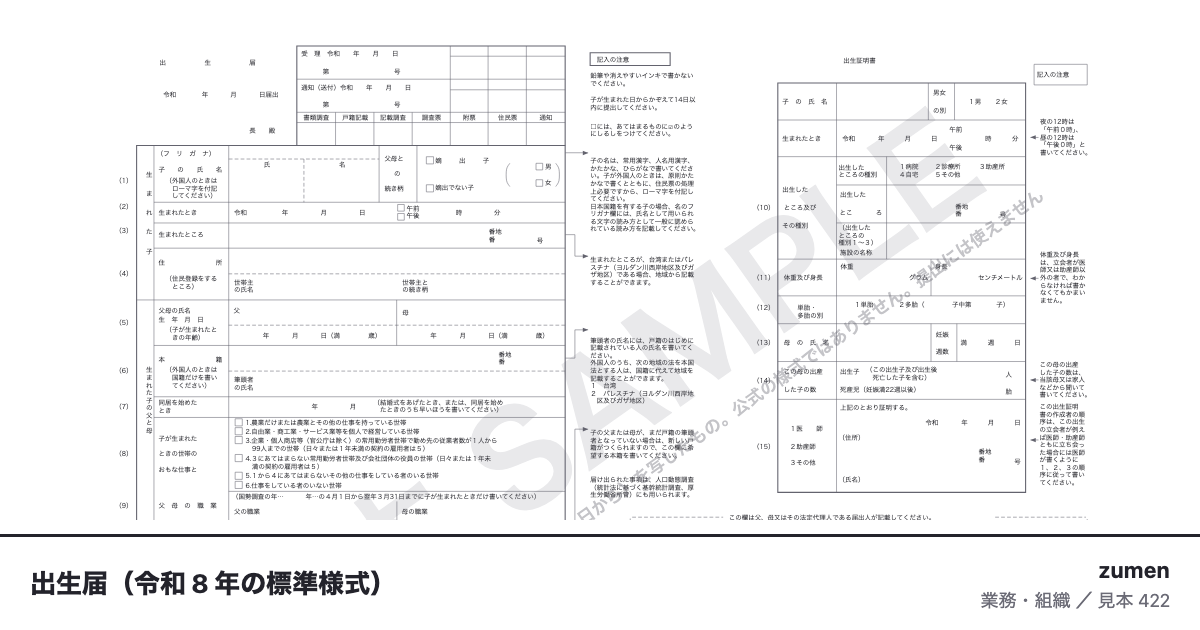
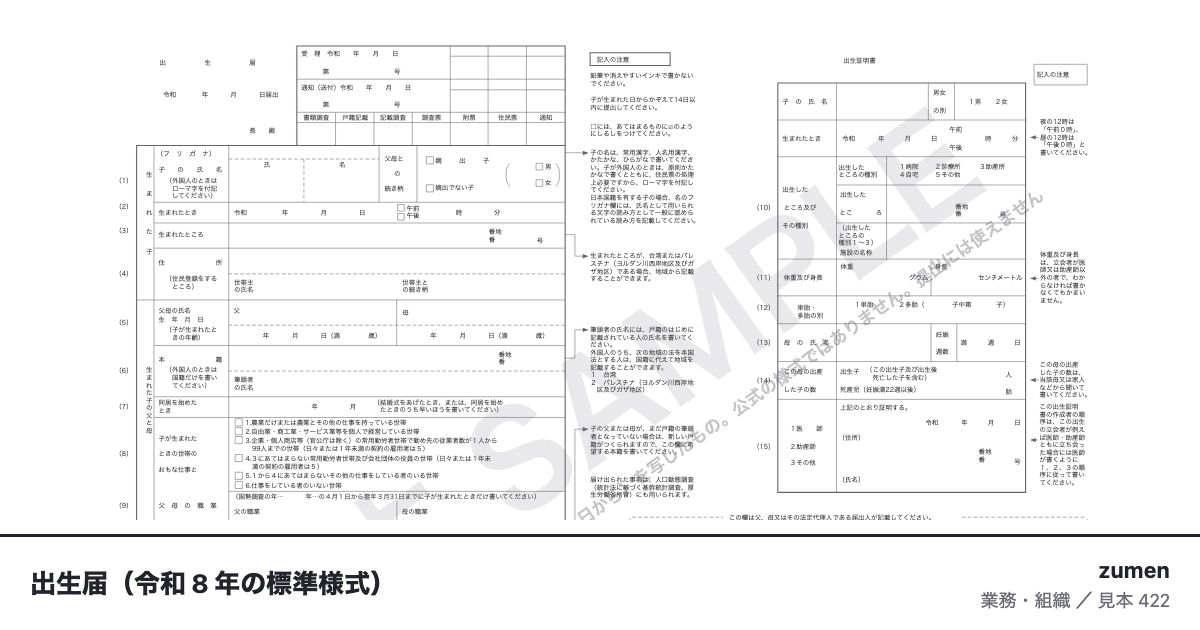
fix(見本 422): 5 回目の見直し。記入の注意の矢印を文の 1 行目へ・点線の枠をつなぐ・（注）①の説明を戻す
Claude-Session: https://claude.ai/code/session_01SsuPBZV9YaAZ9NJNDHvP2H

Changed region(s): [[0.4933, 0.2413, 0.5858, 0.4524], [0.4933, 0.5127, 0.5858, 0.7238]]

diff --git a/site/g/422/index.html b/site/g/422/index.html
@@ -111,7 +111,7 @@
   <p class="made">この図は、下の 1 枚の YAML から描かれています。手で図形を動かしてはいません。</p>
   <h2>正本に書いてある決まりごと</h2>
   <p><strong>役所の窓口や病院で受け取って手で書く様式。</strong> 左が届出人（父母など）の欄、右上が出生証明書（医師・助産師などが書く）、右下の点線枠が個人番号カード交付申請書 兼 電子証明書発行申請書、中央の文は欄ごとの注意。</p>
-  <p>罫線は様式の PDF（A3 横）から拾い、字は PDF から位置ごと取り出した。受理・通知の欄の字だけは図形なので絵から読んだ。字の大きさが固定なので、様式を 1.25 倍で描いて A3 へ縮めて収める（紙の上で字は約 2.5mm）。申請欄の（注）は原文が 6pt ほどの細字で、固定の字では原文の行に収まらないため要約した（図の中にもそう書いた）。出典：法務省民事局長通達「戸籍届書の標準様式の全部改正について」令和 8 年 2 月 26 日 法務省民一第 394 号（別紙 1〜35。令和 8 年 4 月 1 日施行、従前の様式の用紙も当分の間使える）別紙 1。内閣府 地方分権改革の提案募集の資料に収録https://www.cao.go.jp/bunken-suishin/teianbosyu/doc/r07/tb_r7fu_08moj_106_1.pdf（取得 2026-11-10）戸籍法 第 49 条（出生の届出は 14 日以内・出生証明書を添付）戸籍法施行規則 第 59 条・附録第 11 号様式「出生の届書（日本産業規格Ａ列四番）」（e-Gov 法令 API、取得 2026-11-24）。左半分の欄の名前・順は附録第 11 号様式と一致する（（1）〜（9）の番号・記入の注意・受理欄・年の前の「令和」、子の氏名の（外国人のときはローマ字を付記してください）・住所の（住民登録をするところ）・同居の（結婚式をあげたとき…）は標準様式で足されたもの。附録にあるのは（子が生まれたときの年齢）と本籍の（外国人のときは国籍だけを書いてください））架空：なし（何も書き込んでいない白紙の様式）。</p>
+  <p>罫線は様式の PDF（A3 横）から拾い、字は PDF から位置ごと取り出した。受理・通知の欄の字だけは図形なので絵から読んだ。字の大きさが固定なので、様式を 1.25 倍で描いて A3 へ縮めて収める（紙の上で字は約 2.5mm）。申請欄の（注）は原文が 6pt ほどの細字で、固定の字では原文の行に収まらないため要約した（図の中にもそう書いた）。原文のまま折り返すと 12 行要り、枠（⑥の欄の下から点線の枠の下まで）に入らない。要約しても項は落とさない（①の利用者証明用電子証明書の説明も残す）。出典：法務省民事局長通達「戸籍届書の標準様式の全部改正について」令和 8 年 2 月 26 日 法務省民一第 394 号（別紙 1〜35。令和 8 年 4 月 1 日施行、従前の様式の用紙も当分の間使える）別紙 1。内閣府 地方分権改革の提案募集の資料に収録https://www.cao.go.jp/bunken-suishin/teianbosyu/doc/r07/tb_r7fu_08moj_106_1.pdf（取得 2026-11-10）戸籍法 第 49 条（出生の届出は 14 日以内・出生証明書を添付）戸籍法施行規則 第 59 条・附録第 11 号様式「出生の届書（日本産業規格Ａ列四番）」（e-Gov 法令 API、取得 2026-11-24）。左半分の欄の名前・順は附録第 11 号様式と一致する（（1）〜（9）の番号・記入の注意・受理欄・年の前の「令和」、子の氏名の（外国人のときはローマ字を付記してください）・住所の（住民登録をするところ）・同居の（結婚式をあげたとき…）は標準様式で足されたもの。附録にあるのは（子が生まれたときの年齢）と本籍の（外国人のときは国籍だけを書いてください））架空：なし（何も書き込んでいない白紙の様式）。</p>
   <h2>正本（YAML）</h2>
   <p><a href="https://github.com/meta-taro/zumen/blob/main/examples/gallery/422-%E5%87%BA%E7%94%9F%E5%B1%8A.zumen.yaml"><code>examples/gallery/422-出生届.zumen.yaml</code></a></p>
   <h2>同じ分野の見本</h2>

diff --git a/site/en/g/422/index.html b/site/en/g/422/index.html
@@ -112,7 +112,7 @@
   <h2>Notes in the source (in Japanese)</h2>
   <div lang="ja">
   <p><strong>役所の窓口や病院で受け取って手で書く様式。</strong> 左が届出人（父母など）の欄、右上が出生証明書（医師・助産師などが書く）、右下の点線枠が個人番号カード交付申請書 兼 電子証明書発行申請書、中央の文は欄ごとの注意。</p>
-  <p>罫線は様式の PDF（A3 横）から拾い、字は PDF から位置ごと取り出した。受理・通知の欄の字だけは図形なので絵から読んだ。字の大きさが固定なので、様式を 1.25 倍で描いて A3 へ縮めて収める（紙の上で字は約 2.5mm）。申請欄の（注）は原文が 6pt ほどの細字で、固定の字では原文の行に収まらないため要約した（図の中にもそう書いた）。出典：法務省民事局長通達「戸籍届書の標準様式の全部改正について」令和 8 年 2 月 26 日 法務省民一第 394 号（別紙 1〜35。令和 8 年 4 月 1 日施行、従前の様式の用紙も当分の間使える）別紙 1。内閣府 地方分権改革の提案募集の資料に収録https://www.cao.go.jp/bunken-suishin/teianbosyu/doc/r07/tb_r7fu_08moj_106_1.pdf（取得 2026-11-10）戸籍法 第 49 条（出生の届出は 14 日以内・出生証明書を添付）戸籍法施行規則 第 59 条・附録第 11 号様式「出生の届書（日本産業規格Ａ列四番）」（e-Gov 法令 API、取得 2026-11-24）。左半分の欄の名前・順は附録第 11 号様式と一致する（（1）〜（9）の番号・記入の注意・受理欄・年の前の「令和」、子の氏名の（外国人のときはローマ字を付記してください）・住所の（住民登録をするところ）・同居の（結婚式をあげたとき…）は標準様式で足されたもの。附録にあるのは（子が生まれたときの年齢）と本籍の（外国人のときは国籍だけを書いてください））架空：なし（何も書き込んでいない白紙の様式）。</p>
+  <p>罫線は様式の PDF（A3 横）から拾い、字は PDF から位置ごと取り出した。受理・通知の欄の字だけは図形なので絵から読んだ。字の大きさが固定なので、様式を 1.25 倍で描いて A3 へ縮めて収める（紙の上で字は約 2.5mm）。申請欄の（注）は原文が 6pt ほどの細字で、固定の字では原文の行に収まらないため要約した（図の中にもそう書いた）。原文のまま折り返すと 12 行要り、枠（⑥の欄の下から点線の枠の下まで）に入らない。要約しても項は落とさない（①の利用者証明用電子証明書の説明も残す）。出典：法務省民事局長通達「戸籍届書の標準様式の全部改正について」令和 8 年 2 月 26 日 法務省民一第 394 号（別紙 1〜35。令和 8 年 4 月 1 日施行、従前の様式の用紙も当分の間使える）別紙 1。内閣府 地方分権改革の提案募集の資料に収録https://www.cao.go.jp/bunken-suishin/teianbosyu/doc/r07/tb_r7fu_08moj_106_1.pdf（取得 2026-11-10）戸籍法 第 49 条（出生の届出は 14 日以内・出生証明書を添付）戸籍法施行規則 第 59 条・附録第 11 号様式「出生の届書（日本産業規格Ａ列四番）」（e-Gov 法令 API、取得 2026-11-24）。左半分の欄の名前・順は附録第 11 号様式と一致する（（1）〜（9）の番号・記入の注意・受理欄・年の前の「令和」、子の氏名の（外国人のときはローマ字を付記してください）・住所の（住民登録をするところ）・同居の（結婚式をあげたとき…）は標準様式で足されたもの。附録にあるのは（子が生まれたときの年齢）と本籍の（外国人のときは国籍だけを書いてください））架空：なし（何も書き込んでいない白紙の様式）。</p>
   </div>
   <h2>Source (YAML)</h2>
   <p><a href="https://github.com/meta-taro/zumen/blob/main/examples/gallery/422-%E5%87%BA%E7%94%9F%E5%B1%8A.zumen.yaml"><code>examples/gallery/422-出生届.zumen.yaml</code></a></p>
